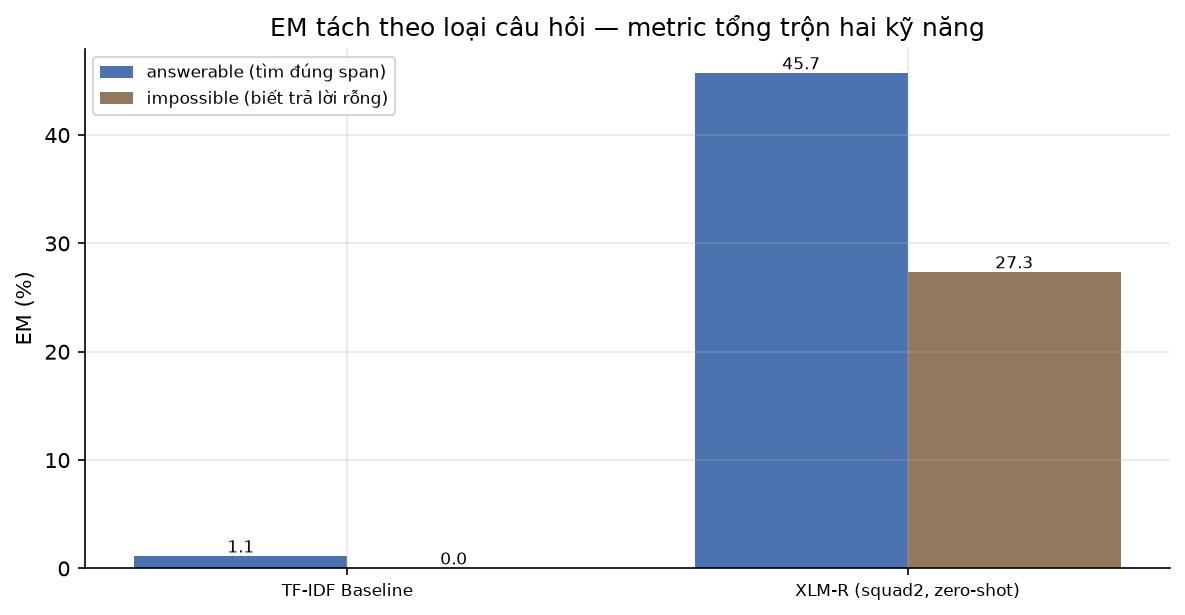
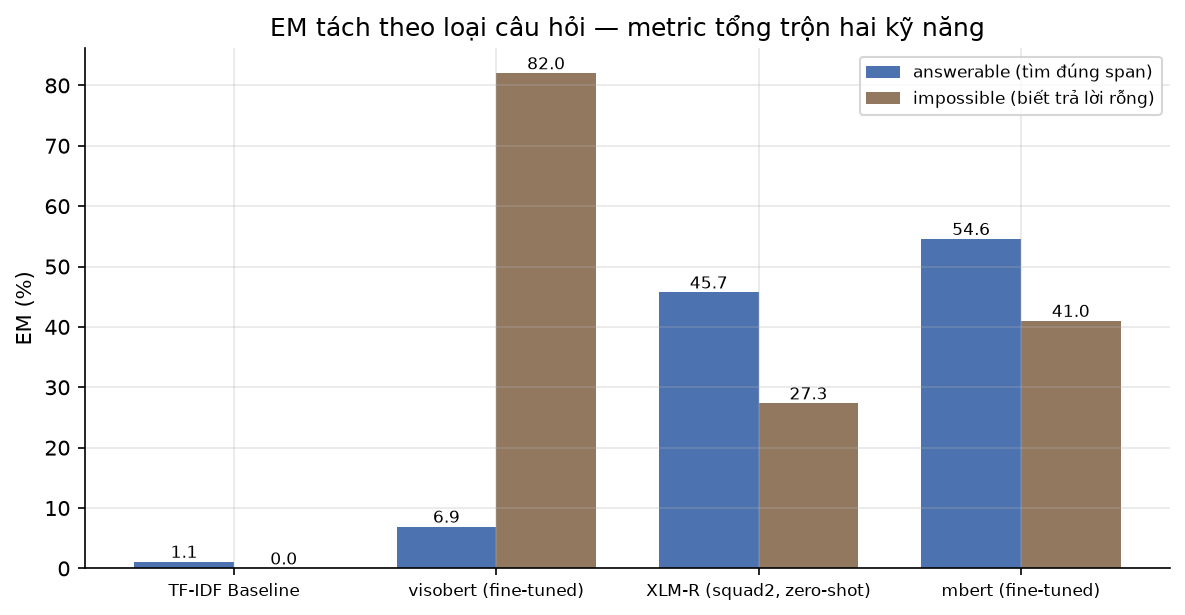
feat: kết quả cuối cùng 4 model + phân tích ViSoBERT suy sụp
Đánh giá cả 4 model trên CÙNG mẫu 500 câu (seed=42), validation split, MPS:

  model                        EM     F1  | ansEM  ansF1 | impEM |   ms
  TF-IDF Baseline             0.80  23.09 |  1.11  31.99 |  0.00 |  0.5
  ViSoBERT (fine-tuned)      27.80  31.31 |  6.93  11.78 | 82.01 | 22.7
  XLM-R squad2 (zero-shot)   40.60  56.84 | 45.71  68.20 | 27.34 | 14.3
  mBERT (fine-tuned)         50.80  59.49 | 54.57  66.60 | 41.01 | 13.5

Ba phát hiện mà con số tổng che mất:

1. mBERT thắng XLM-R KHÔNG phải nhờ tìm span giỏi hơn. Trên câu answerable,
   XLM-R zero-shot thực ra tốt hơn (F1 68,20 vs 66,60). mBERT thắng vì biết
   khi nào KHÔNG nên trả lời (impossible EM 41,01 vs 27,34). Với ~30% câu là
   unanswerable, kỹ năng thứ hai quyết định bảng xếp hạng.

2. ViSoBERT suy sụp: EM tổng 27,80 BẰNG ĐÚNG tỉ lệ impossible của tập (27,80%).
   Bóc tách: impossible EM 82,01 nhưng answerable EM chỉ 6,93.
   scripts/check_hypotheses.py phát hiện tự động bằng alarm
   score_equals_impossible_rate.

3. Baseline F1 23,09 với EM 0,80 — trả cả câu trong khi gold là cụm vài từ.

Đã loại trừ ba confound trước khi kết luận ViSoBERT kém:
  max_position_embeddings=514 (không phải nguyên nhân)
  max_answer_len 30 -> 64     (là confound thật, 25,2% gold vượt ngưỡng)
  lr 3e-5 -> 5e-5             (F1 12,25 -> 30,48, vẫn kém xa)
  quét null_threshold         (tốt nhất 34,77; ép trả lời cho EM 11,50)
Sau khi loại hết vẫn kém xa mBERT ⇒ giới hạn thật của model.
[…]

diff --git a/scripts/run_eval.py b/scripts/run_eval.py
@@ -22,7 +22,17 @@ def subset(examples, n, seed=42):
     return reproducible_subset(examples, n, seed=seed)
 
 
-def build(kind: str, max_answer_len: int = 30):
+#: Do dai span toi da theo TOKEN, do rieng cho tung tokenizer.
+#: Cung mot dap an sinh ra so token khac nhau tuy vocab, nen mot hang so chung la sai.
+#: Gia tri = p95 do dai gold answer tren 4000 mau train split:
+#:   mBERT / XLM-R (vocab 119k / 250k) -> p95 = 40 token  (dung 30, vuot 10.8%)
+#:   ViSoBERT      (vocab  15k)        -> p95 = 64 token  (dung 30, vuot 25.2%)
+MAX_ANSWER_LEN = {"visobert": 64}
+DEFAULT_MAX_ANSWER_LEN = 30
+
+
+def build(kind: str, max_answer_len: int | None = None):
+    max_answer_len = max_answer_len or MAX_ANSWER_LEN.get(kind, DEFAULT_MAX_ANSWER_LEN)
     if kind == "baseline":
         from mrc.baseline_tfidf import TfidfRetriever
 
@@ -51,7 +61,7 @@ def main() -> None:
     ap.add_argument("--full", action="store_true", help="dùng toàn bộ split")
     ap.add_argument("--data-dir", default="data/raw")
     ap.add_argument("--out-dir", default="results")
-    ap.add_argument("--max-answer-len", type=int, default=30,
+    ap.add_argument("--max-answer-len", type=int, default=None,
                     help="Do dai span toi da theo TOKEN; phu thuoc tokenizer "
                          "(ViSoBERT can ~64 vi vocab 15k chia tu rat nho)")
     args = ap.parse_args()
@@ -71,7 +81,9 @@ def main() -> None:
 
     for kind in args.models:
         print(f"\n=== {kind} ===", flush=True)
-        result = run_evaluation(build(kind, args.max_answer_len), examples, split=args.split)
+        model = build(kind, args.max_answer_len)
+        print(f"  max_answer_len={getattr(model, 'max_answer_len', '-')}")
+        result = run_evaluation(model, examples, split=args.split)
         o, a, i = result["overall"], result["answerable_only"], result["impossible_only"]
         print(f"  overall     EM {o['EM']:6.2f}  F1 {o['F1']:6.2f}  (n={o['count']})")
         print(f"  answerable  EM {a['EM']:6.2f}  F1 {a['F1']:6.2f}  (n={a['count']})")

diff --git a/README.md b/README.md
@@ -13,24 +13,78 @@ Cho một đoạn văn (`context`) và một câu hỏi (`question`), hệ thố
 
 ## Kết quả
 
-UIT-ViQuAD 2.0, **validation split**, n = 500, thiết bị **MPS (Apple M5 Pro)**:
+UIT-ViQuAD 2.0, **validation split**, n = 500 (cùng một mẫu ngẫu nhiên seed=42 cho
+mọi model), thiết bị **MPS (Apple M5 Pro)**:
 
-| Model | EM | F1 | EM answerable | EM impossible | Latency |
+| Model | EM | F1 | answerable EM / F1 | impossible EM | Latency |
 |---|---:|---:|---:|---:|---:|
-| TF-IDF Baseline | 0.80 | 23.09 | 1.11 | 0.00 | 0.5 ms |
-| XLM-R squad2 (zero-shot) | 40.60 | 56.84 | 45.71 | 27.34 | 14.0 ms |
-| mBERT + QA head (fine-tuned) | *đang chạy* | | | | |
-| ViSoBERT + QA head (fine-tuned) | *đang chạy* | | | | |
+| TF-IDF Baseline | 0.80 | 23.09 | 1.11 / 31.99 | 0.00 | 0.5 ms |
+| ViSoBERT + QA (fine-tuned) | 27.80 | 31.31 | **6.93** / 11.78 | **82.01** | 22.7 ms |
+| XLM-R squad2 (zero-shot) | 40.60 | 56.84 | 45.71 / **68.20** | 27.34 | 14.3 ms |
+| **mBERT + QA (fine-tuned)** | **50.80** | **59.49** | **54.57** / 66.60 | 41.01 | 13.5 ms |
 
-Cả hai kết quả đã có đều **nằm trong khoảng dự đoán ghi trước khi chạy**
-(`results/hypotheses.md`). Xem `docs/SOLUTION.md` để biết vì sao việc đăng ký giả
-thuyết trước lại quan trọng.
+Đối chiếu với giả thuyết ghi **trước** khi chạy (`results/hypotheses.md`):
+`python scripts/check_hypotheses.py`.
 
-**Đọc bảng này:** baseline có F1 = 23% nhưng EM gần 0 vì nó trả về **cả một câu**,
-trong khi đáp án vàng là **cụm vài từ** — overlap token có, trùng khít thì không.
-Khoảng cách EM–F1 đó là bằng chứng trực quan rằng hai metric đo hai thứ khác nhau.
+### Ba điều bảng này nói ra, mà con số tổng thì không
 
----
+**1. Baseline: F1 23% nhưng EM 0,8%.** Nó trả về **cả một câu**, còn gold là **cụm
+vài từ** — overlap token có, trùng khít thì không. Khoảng cách EM–F1 đó là bằng
+chứng trực quan rằng hai metric đo hai thứ khác nhau.
+
+**2. mBERT thắng XLM-R KHÔNG phải vì tìm span giỏi hơn.** Trên câu answerable,
+XLM-R zero-shot thực ra **tốt hơn** (F1 68,20 so với 66,60). mBERT thắng tổng thể
+vì **biết khi nào KHÔNG nên trả lời** tốt hơn hẳn (impossible EM 41,01 so với
+27,34). Với ~30% câu là unanswerable, kỹ năng thứ hai quyết định bảng xếp hạng.
+Đây là lý do báo cáo tách `answerable_only` và `impossible_only` — con số tổng
+trộn hai kỹ năng và che mất điều này.
+
+**3. ViSoBERT suy sụp về "luôn trả rỗng".** EM tổng 27,80 **bằng đúng tỉ lệ
+impossible của tập (27,80%)**. Bóc tách ra: impossible EM **82,01** nhưng
+answerable EM chỉ **6,93** — nó gần như chỉ ăn điểm từ việc từ chối trả lời.
+`scripts/check_hypotheses.py` phát hiện tự động điều này.
+
+### Vì sao ViSoBERT thất bại — và vì sao đó là kết quả hợp lệ
+
+Đã loại trừ ba confound trước khi kết luận:
+
+| Nghi vấn | Kiểm tra | Kết quả |
+|---|---|---|
+| `max_position_embeddings` < 384? | đọc config | 514 — không phải nguyên nhân |
+| `max_answer_len=30` quá ngắn? | đo p95 gold answer | **đúng là confound** — 25,2% gold vượt 30 token. Sửa thành 64 |
+| learning rate quá thấp? | 3e-5 → 5e-5 | có cải thiện (F1 12,25 → 30,48) nhưng vẫn kém xa |
+| ngưỡng null lệch? | quét `null_threshold` | tốt nhất F1 34,77; ép trả lời cho EM **11,50** |
+
+Sau khi loại hết, ViSoBERT vẫn kém xa mBERT ⇒ đây là **giới hạn thật của model**,
+không phải lỗi cấu hình.
+
+**Giải thích:** ViSoBERT pretrain trên văn bản **mạng xã hội** với vocab **15.004**
+(mBERT: 119.547). MRC trên Wikipedia đòi **biên span chính xác** trên văn phong
+trang trọng dày đặc **tên riêng** — đúng thứ mà vocab nhỏ chia vụn nặng nhất:
+
+```
+"Hà Nội là thủ đô của nước Cộng hoà..."
+  ViSoBERT (23 token): ['▁Hà','▁N','ội','▁là','▁thủ','▁đô','▁c','ủa',...]
+  mBERT    (17 token): ['Hà','Nội','là','thủ','đô','của','nước','Cộng',...]
+```
+
+⇒ **Pretraining đúng ngôn ngữ không bù được pretraining sai miền.** Đây là câu trả
+lời có bằng chứng cho câu hỏi "tiếng Việt chuyên biệt có giúp không?", và nó thú vị
+hơn một chiến thắng phẳng.
+
+### Đường cong huấn luyện
+
+| | epoch | train loss | val EM | val F1 |
+|---|---:|---:|---:|---:|
+| **mBERT** (lr 3e-5) | 1 | 2.1316 | 46.00 | 58.39 |
+| | 2 | 1.2960 | 52.00 | 59.75 |
+| **ViSoBERT** (lr 5e-5) | 1 | 3.0512 | 25.67 | 25.67 |
+| | 2 | 2.5678 | 25.33 | 25.61 |
+| | 3 | 2.1908 | 27.00 | 30.48 |
+
+mBERT: loss giảm, val tăng ⇒ **chưa overfit, thậm chí còn thiếu epoch**.
+ViSoBERT epoch 1–2: `val_EM == val_F1` ⇒ dấu hiệu **suy sụp về luôn-trả-rỗng**;
+epoch 3 mới bắt đầu thoát ra.
 
 ## Cài đặt
 
